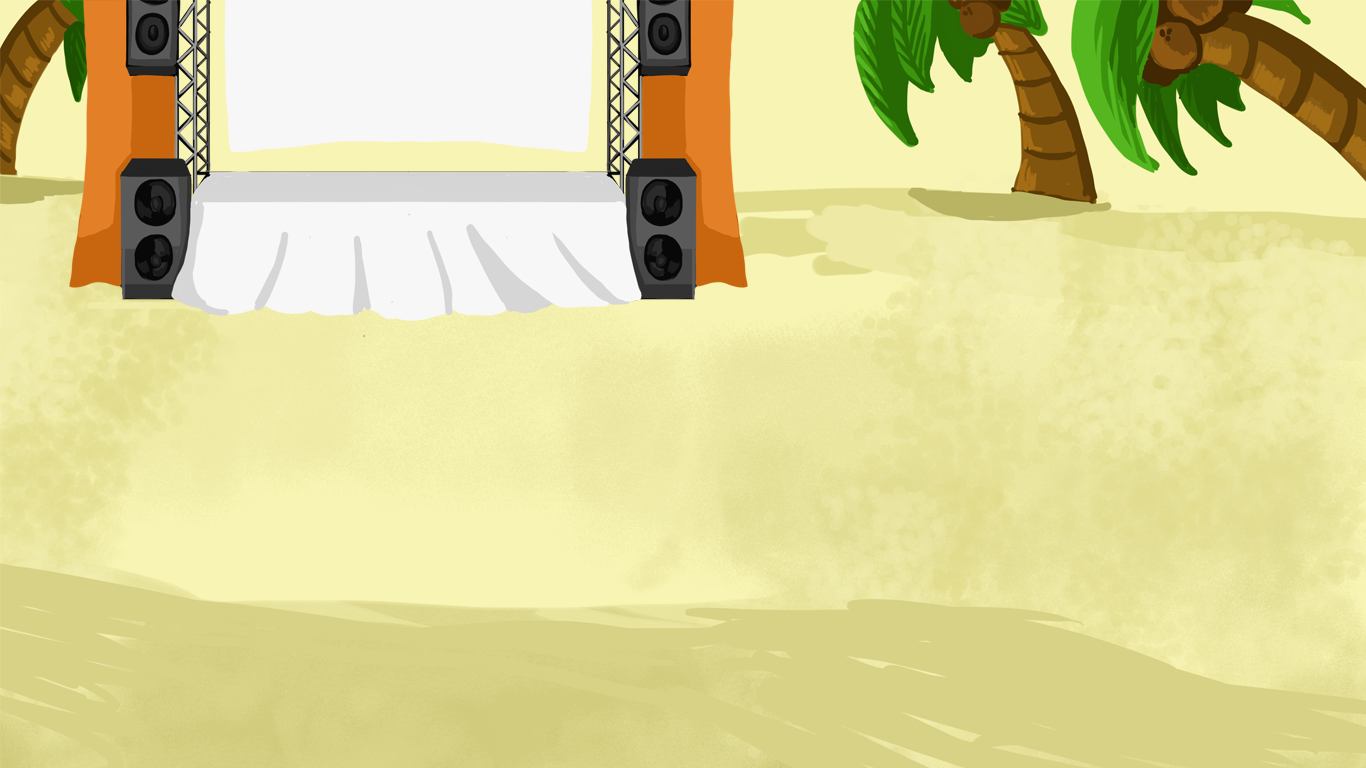
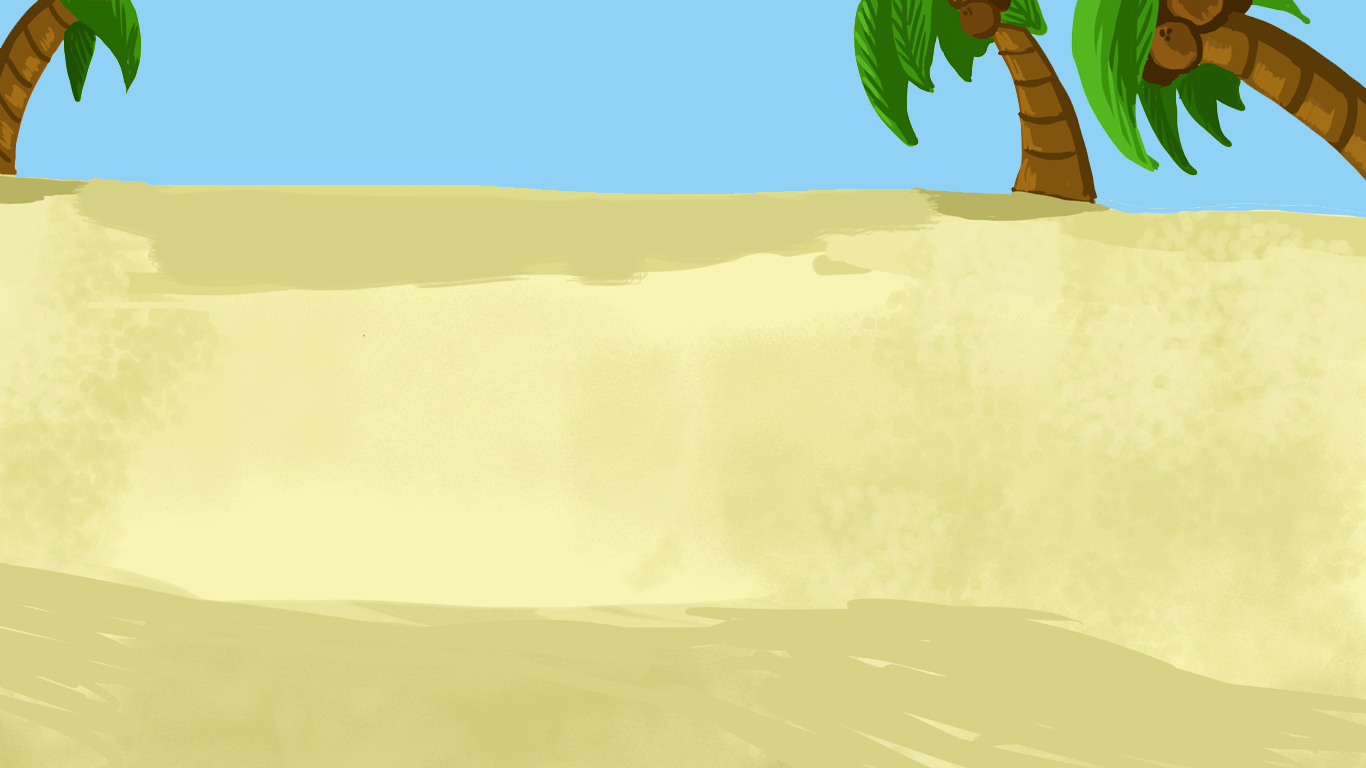
Fixes en background y detalles

Changed region(s): [[0.0, 0.0, 1.0, 0.4375], [0.8917, 0.0, 1.0, 0.125], [0.0, 0.0, 0.0307, 0.0625]]

diff --git a/src/config.js b/src/config.js
@@ -1,43 +1,68 @@
+function buildNotes(quantity){
+  let notes = [];
+  let symbols = {1: 'n', 2: 'r', 3: 'l'};
+  for (let i = 0; i < quantity; i++) {
+    let symbolIndex = Math.floor(Math.random() * 3) + 1;
+    let mute = Math.floor(Math.random() * 2) + 1;
+    let note = {index: i, symbol: symbols[symbolIndex], mute: mute};
+    notes.push(note);
+  }
+  return notes;
+}
+
 export default {
-  gameWidth: 1270,
+  gameWidth: 1000,
   gameHeight: 600,
   localStorageName: 'killerTwerking',
   rowSize: 10,
   songs: [
     {
       title: 'Gasolina',
-      notes: [
-        {index: 1, symbol:'n',mute:1},
-        {index: 2, symbol:'r',mute:1},
-        {index: 3, symbol:'n',mute:2},
-        {index: 4, symbol:'n',mute:2},
-        {index: 5, symbol:'r',mute:1},
-        {index: 6, symbol:'l',mute:1},
-        {index: 7, symbol:'r',mute:1},
-        {index: 8, symbol:'n',mute:2},
-        {index: 9, symbol:'n',mute:2},
-        {index: 10, symbol:'n',mute:1},
-        {index: 11, symbol:'l',mute:1},
-        {index: 12, symbol:'l',mute:1},
-        {index: 13, symbol:'r',mute:2},
-        {index: 14, symbol:'r',mute:2},
-        {index: 15, symbol:'r',mute:1},
-        {index: 16, symbol:'l',mute:1},
-        {index: 17, symbol:'l',mute:1},
-        {index: 18, symbol:'r',mute:2},
-        {index: 19, symbol:'n',mute:2},
-        {index: 20, symbol:'n',mute:1},
-        {index: 20, symbol:'n',mute:1},
-        {index: 21, symbol:'r',mute:1},
-        {index: 22, symbol:'n',mute:2},
-        {index: 23, symbol:'l',mute:2},
-        {index: 24, symbol:'r',mute:1},
-        {index: 25, symbol:'l',mute:1},
-        {index: 26, symbol:'l',mute:1},
-        {index: 27, symbol:'n',mute:2},
-        {index: 28, symbol:'r',mute:2},
-        {index: 29, symbol:'r',mute:1},
-      ]
+      notes: buildNotes(100)
     }
   ]
 }
+
+// export default {
+//   gameWidth: 1270,
+//   gameHeight: 600,
+//   localStorageName: 'killerTwerking',
+//   rowSize: 10,
+//   songs: [
+//     {
+//       title: 'Gasolina',
+//       notes: [
+//         {index: 1, symbol:'n',mute:1},
+//         {index: 2, symbol:'r',mute:1},
+//         {index: 3, symbol:'n',mute:2},
+//         {index: 4, symbol:'n',mute:2},
+//         {index: 5, symbol:'r',mute:1},
+//         {index: 6, symbol:'l',mute:1},
+//         {index: 7, symbol:'r',mute:1},
+//         {index: 8, symbol:'n',mute:2},
+//         {index: 9, symbol:'n',mute:2},
+//         {index: 10, symbol:'n',mute:1},
+//         {index: 11, symbol:'l',mute:1},
+//         {index: 12, symbol:'l',mute:1},
+//         {index: 13, symbol:'r',mute:2},
+//         {index: 14, symbol:'r',mute:2},
+//         {index: 15, symbol:'r',mute:1},
+//         {index: 16, symbol:'l',mute:1},
+//         {index: 17, symbol:'l',mute:1},
+//         {index: 18, symbol:'r',mute:2},
+//         {index: 19, symbol:'n',mute:2},
+//         {index: 20, symbol:'n',mute:1},
+//         {index: 20, symbol:'n',mute:1},
+//         {index: 21, symbol:'r',mute:1},
+//         {index: 22, symbol:'n',mute:2},
+//         {index: 23, symbol:'l',mute:2},
+//         {index: 24, symbol:'r',mute:1},
+//         {index: 25, symbol:'l',mute:1},
+//         {index: 26, symbol:'l',mute:1},
+//         {index: 27, symbol:'n',mute:2},
+//         {index: 28, symbol:'r',mute:2},
+//         {index: 29, symbol:'r',mute:1},
+//       ]
+//     }
+//   ]
+// }

diff --git a/src/states/Menu.js b/src/states/Menu.js
@@ -15,14 +15,6 @@ export default class extends Phaser.State {
     startScreen.width = this.world.width;
     startScreen.height = this.world.height;
 
-    // let banner = this.add.text(this.world.centerX, 100, bannerText)
-    // banner.font = 'Bangers';
-    // banner.padding.set(10, 16);
-    // banner.fontSize = 40;
-    // banner.fill = '#77BFA3';
-    // banner.smoothed = false;
-    // banner.anchor.setTo(0.5);
-
     //let start = this.add.text(this.world.centerX, this.world.centerY, 'Start Game')
     let start = this.game.add.sprite(this.world.centerX, this.world.centerY + 50, 'start_button');
     start.anchor.setTo(0.5)

diff --git a/src/states/Game.js b/src/states/Game.js
@@ -203,7 +203,7 @@ export default class Game extends Phaser.State {
 
     if(centerHub.y - range < centerSprite.y) {
       if(this.songStatus.range == 'perfect' && !this.claped) {
-        this.clap.play();
+        //this.clap.play();
         this.claped = true;
       }
       this.songStatus.range = name;
